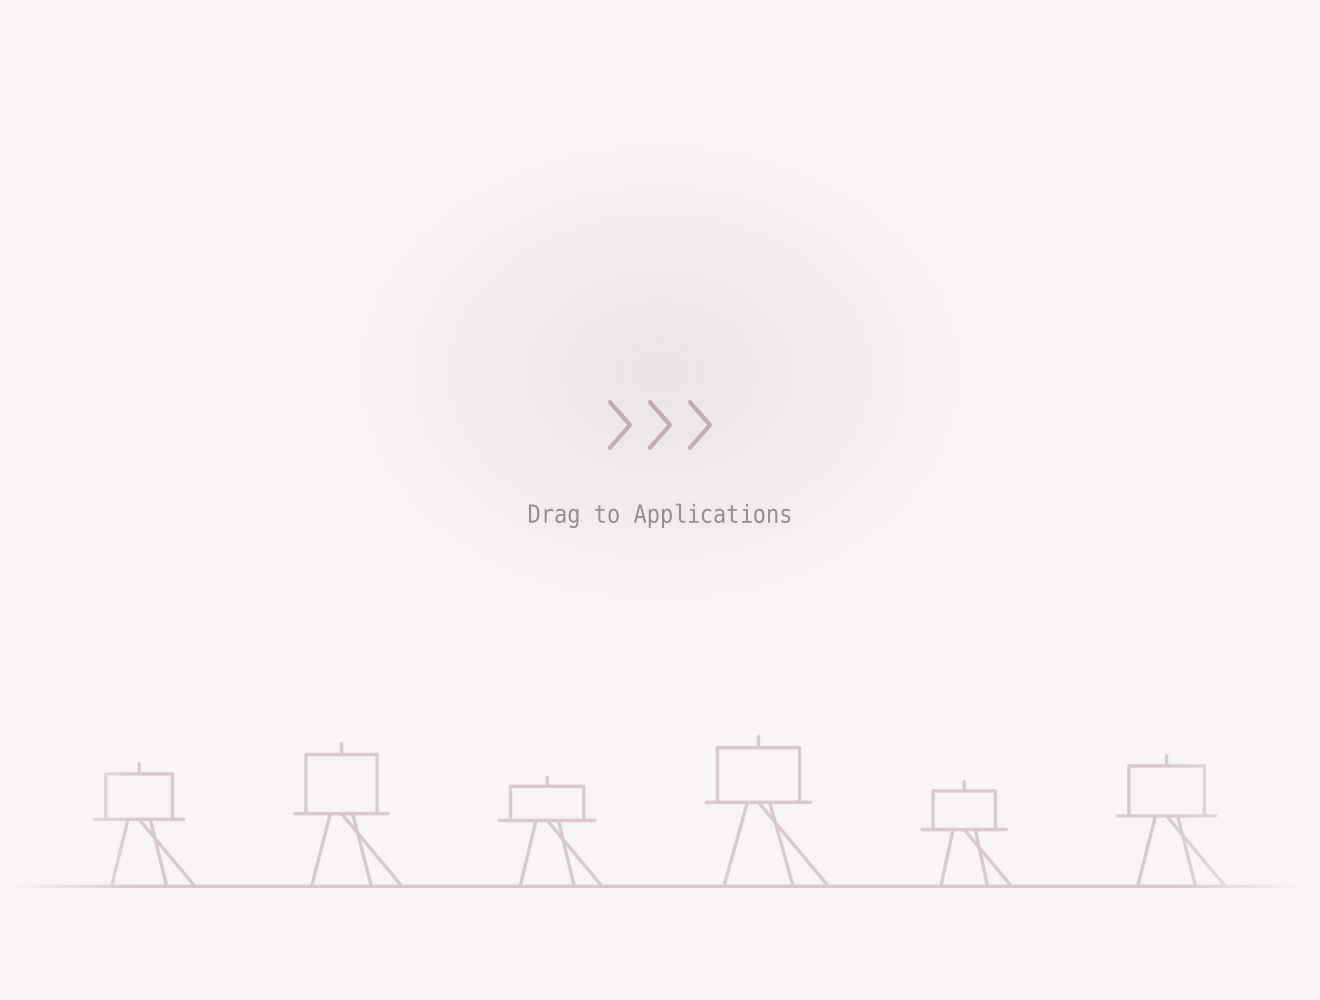
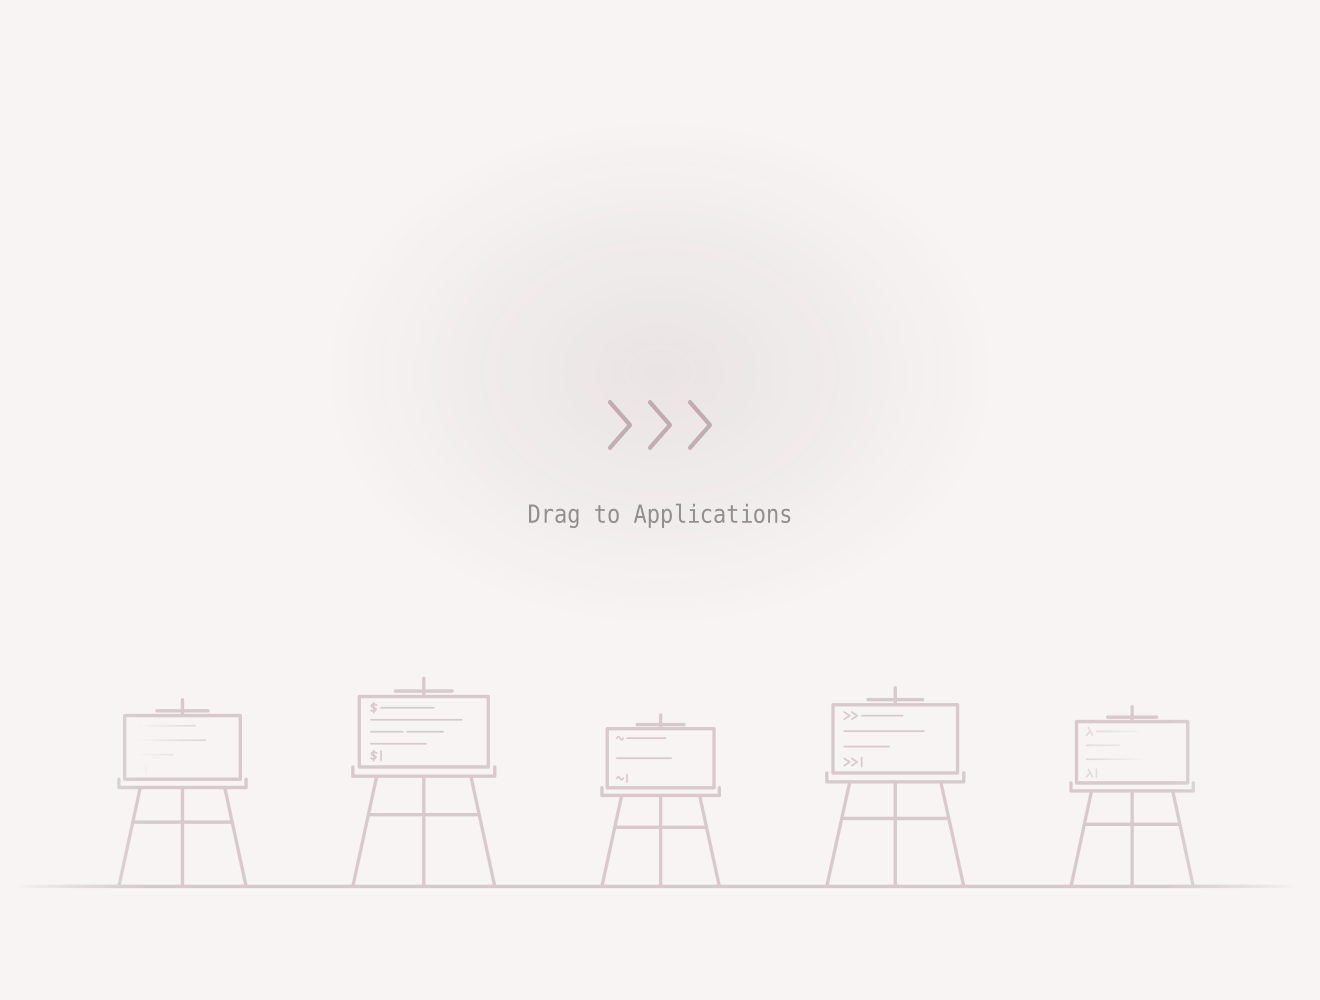
feat: put a different shell prompt on each easel
The terminals on the canvases had a title bar with three window dots and
the same two lines of output underneath. Drop the chrome and give each
easel its own prompt — `>`, `$`, `~`, `>>`, `λ` — over a screen of output
that differs in line count and length.

Split the drawing in two. `EaselGeometry` holds the measurements, and
`EaselRow` and `EaselScreens` each stroke from it, because a `Shape`
carries one `StrokeStyle` and the screens need a finer line than the
frames to stay legible at the sizes this ships at. The SVG comment has
described that arrangement since the last commit; it is now true.

Every glyph carries its own advance width and cap height. A shared box
made `$` squat and `>>` cramped, and `$`, `~` and `λ` are drawn as
curves — the boxy line-art versions blobbed at HelpView width.

Also fixes the second SVG path, which was transcribed against the older
six-easel layout and rendered as prompt text floating beside the easels.

diff --git a/Sources/Views/EaselRow.swift b/Sources/Views/EaselRow.swift
@@ -1,90 +1,336 @@
-// ABOUTME: A row of studio easels as a SwiftUI shape.
+// ABOUTME: A row of studio easels, each holding a terminal, as SwiftUI shapes.
 // ABOUTME: Drawn on a 1200x260 grid with the studio floor at y=220.
 
 import SwiftUI
 
-struct EaselRow: Shape {
-    /// One easel, measured up from the floor: where it stands, how tall its legs
-    /// are, and the canvas resting on its tray.
-    private struct Easel {
+/// The shared measurements behind the easel row. Two shapes draw from it —
+/// `EaselRow` for the furniture and `EaselScreens` for what is on the canvases —
+/// because the screens are stroked finer than the frames and a `Shape` carries
+/// one `StrokeStyle`.
+enum EaselGeometry {
+    /// One easel, measured up from the floor: where it stands, the terminal it
+    /// holds, how long its legs are, and how far the mast shows above the frame.
+    struct Easel {
         let centerX: Double
-        let legHeight: Double
-        let canvasHeight: Double
         let canvasHalfWidth: Double
-        /// How far the mast shows above the canvas.
+        let canvasHeight: Double
+        let legHeight: Double
         let mastStub: Double
     }
 
-    private static let floorY: Double = 220
-    private static let floorStart: Double = 20
-    private static let floorEnd: Double = 1180
-    /// How far the tray sticks out past the canvas, each side.
-    private static let trayOverhang: Double = 10
-    /// Half-span where the front legs meet the tray.
-    private static let legTopSpread: Double = 10
-    /// Front feet, as a fraction of leg height. The rear leg splays further, so
-    /// the tripod reads as three legs rather than a doubled line.
-    private static let legSplay: Double = 0.42
-    private static let rearLegSplay: Double = 0.85
+    /// One easel's derived edges, so both shapes agree on where the canvas is.
+    struct Metrics {
+        let left: Double
+        let top: Double
+        let width: Double
+        let height: Double
+        let trayTopY: Double
+        let trayBottomY: Double
+        let trayHalf: Double
+    }
 
-    private static let easels: [Easel] = [
-        Easel(centerX: 135, legHeight: 59, canvasHeight: 40, canvasHalfWidth: 30, mastStub: 9),
-        Easel(centerX: 317, legHeight: 64, canvasHeight: 52, canvasHalfWidth: 32, mastStub: 10),
-        Easel(centerX: 502, legHeight: 58, canvasHeight: 30, canvasHalfWidth: 33, mastStub: 8),
-        Easel(centerX: 692, legHeight: 74, canvasHeight: 48, canvasHalfWidth: 37, mastStub: 10),
-        Easel(centerX: 877, legHeight: 50, canvasHeight: 34, canvasHalfWidth: 28, mastStub: 8),
-        Easel(centerX: 1059, legHeight: 62, canvasHeight: 44, canvasHalfWidth: 34, mastStub: 9),
+    static let gridWidth: Double = 1200
+    static let gridHeight: Double = 260
+
+    static let floorY: Double = 220
+    static let floorStart: Double = 20
+    static let floorEnd: Double = 1180
+    /// Tray half-span, as a multiple of the canvas half-width. The front feet
+    /// land under the tray's edges, so this also sets how wide the base stands.
+    static let trayRatio: Double = 1.10
+    /// Tray depth, as a fraction of canvas height.
+    static let trayThickness: Double = 0.13
+    /// Where the front legs meet the tray, as a fraction of the canvas half-width.
+    static let legTopSpread: Double = 0.73
+    /// Crossbar height, as a fraction of the way down the legs.
+    static let crossbarHeight: Double = 0.35
+    /// The clamp under the mast: half-width as a fraction of canvas width, and
+    /// height as a fraction of the mast stub.
+    static let clampSpan: Double = 0.22
+    static let clampHeight: Double = 0.30
+
+    static let easels: [Easel] = [
+        Easel(centerX: 174, canvasHalfWidth: 52, canvasHeight: 56, legHeight: 87, mastStub: 14),
+        Easel(centerX: 391, canvasHalfWidth: 58, canvasHeight: 62, legHeight: 97, mastStub: 16),
+        Easel(centerX: 604, canvasHalfWidth: 48, canvasHeight: 52, legHeight: 80, mastStub: 12),
+        Easel(centerX: 815, canvasHalfWidth: 56, canvasHeight: 60, legHeight: 92, mastStub: 15),
+        Easel(centerX: 1028, canvasHalfWidth: 50, canvasHeight: 54, legHeight: 84, mastStub: 13),
     ]
 
+    static func metrics(for easel: Easel) -> Metrics {
+        let trayBottomY = floorY - easel.legHeight
+        let trayTopY = trayBottomY - easel.canvasHeight * trayThickness
+        return Metrics(
+            left: easel.centerX - easel.canvasHalfWidth,
+            top: trayTopY - easel.canvasHeight,
+            width: easel.canvasHalfWidth * 2,
+            height: easel.canvasHeight,
+            trayTopY: trayTopY,
+            trayBottomY: trayBottomY,
+            trayHalf: easel.canvasHalfWidth * trayRatio
+        )
+    }
+}
+
+/// A drawing surface that maps the 1200x260 design grid onto a rect.
+private struct Grid {
+    let sx: Double
+    let sy: Double
+    var path = Path()
+
+    init(_ rect: CGRect) {
+        sx = rect.width / EaselGeometry.gridWidth
+        sy = rect.height / EaselGeometry.gridHeight
+    }
+
+    func point(_ x: Double, _ y: Double) -> CGPoint {
+        CGPoint(x: x * sx, y: y * sy)
+    }
+
+    mutating func move(_ x: Double, _ y: Double) {
+        path.move(to: point(x, y))
+    }
+
+    mutating func line(_ x: Double, _ y: Double) {
+        path.addLine(to: point(x, y))
+    }
+
+    mutating func quadCurve(control cx: Double, _ cy: Double, to x: Double, _ y: Double) {
+        path.addQuadCurve(to: point(x, y), control: point(cx, cy))
+    }
+
+    mutating func segment(_ x1: Double, _ y1: Double, _ x2: Double, _ y2: Double) {
+        move(x1, y1)
+        line(x2, y2)
+    }
+}
+
+/// The easels themselves: floor, canvas frames, masts, trays, and legs.
+struct EaselRow: Shape {
     func path(in rect: CGRect) -> Path {
-        let sx = rect.width / 1200
-        let sy = rect.height / 260
-        var p = Path()
+        var g = Grid(rect)
 
-        func pt(_ x: Double, _ y: Double) -> CGPoint {
-            CGPoint(x: x * sx, y: y * sy)
-        }
+        g.segment(EaselGeometry.floorStart, EaselGeometry.floorY,
+                  EaselGeometry.floorEnd, EaselGeometry.floorY)
 
-        p.move(to: pt(Self.floorStart, Self.floorY))
-        p.addLine(to: pt(Self.floorEnd, Self.floorY))
+        for easel in EaselGeometry.easels {
+            let m = EaselGeometry.metrics(for: easel)
+            let cx = easel.centerX
+            let cw = easel.canvasHalfWidth
 
-        for easel in Self.easels {
-            let trayY = Self.floorY - easel.legHeight
-            let canvasTopY = trayY - easel.canvasHeight
+            // Canvas, its bottom edge shared with the top of the tray.
+            g.move(m.left, m.trayTopY)
+            g.line(m.left, m.top)
+            g.line(m.left + m.width, m.top)
+            g.line(m.left + m.width, m.trayTopY)
+            g.path.closeSubpath()
 
-            // Canvas — three sides, because its bottom edge is the tray.
-            p.move(to: pt(easel.centerX - easel.canvasHalfWidth, trayY))
-            p.addLine(to: pt(easel.centerX - easel.canvasHalfWidth, canvasTopY))
-            p.addLine(to: pt(easel.centerX + easel.canvasHalfWidth, canvasTopY))
-            p.addLine(to: pt(easel.centerX + easel.canvasHalfWidth, trayY))
-
-            // Mast, showing above the canvas.
-            p.move(to: pt(easel.centerX, canvasTopY))
-            p.addLine(to: pt(easel.centerX, canvasTopY - easel.mastStub))
+            // Mast, and the clamp it rises from.
+            g.segment(cx, m.top, cx, m.top - easel.mastStub)
+            let clampY = m.top - easel.mastStub * EaselGeometry.clampHeight
+            g.segment(cx - m.width * EaselGeometry.clampSpan, clampY,
+                      cx + m.width * EaselGeometry.clampSpan, clampY)
 
             // Tray.
-            p.move(to: pt(easel.centerX - easel.canvasHalfWidth - Self.trayOverhang, trayY))
-            p.addLine(to: pt(easel.centerX + easel.canvasHalfWidth + Self.trayOverhang, trayY))
+            g.move(cx - m.trayHalf, m.trayTopY)
+            g.line(cx - m.trayHalf, m.trayBottomY)
+            g.line(cx + m.trayHalf, m.trayBottomY)
+            g.line(cx + m.trayHalf, m.trayTopY)
 
-            // Front legs.
-            p.move(to: pt(easel.centerX - Self.legTopSpread, trayY))
-            p.addLine(to: pt(easel.centerX - easel.legHeight * Self.legSplay, Self.floorY))
-            p.move(to: pt(easel.centerX + Self.legTopSpread, trayY))
-            p.addLine(to: pt(easel.centerX + easel.legHeight * Self.legSplay, Self.floorY))
+            // Front legs, splaying out to land under the tray's edges.
+            for side in [-1.0, 1.0] {
+                g.segment(cx + side * cw * EaselGeometry.legTopSpread, m.trayBottomY,
+                          cx + side * m.trayHalf, EaselGeometry.floorY)
+            }
 
-            // Rear leg.
-            p.move(to: pt(easel.centerX, trayY))
-            p.addLine(to: pt(easel.centerX + easel.legHeight * Self.rearLegSplay, Self.floorY))
+            // Crossbar between them.
+            let barY = m.trayBottomY
+                + (EaselGeometry.floorY - m.trayBottomY) * EaselGeometry.crossbarHeight
+            let legTopX = cw * EaselGeometry.legTopSpread
+            let barX = legTopX + (m.trayHalf - legTopX) * EaselGeometry.crossbarHeight
+            g.segment(cx - barX, barY, cx + barX, barY)
+
+            // Rear leg, vertical in this view.
+            g.segment(cx, m.trayBottomY, cx, EaselGeometry.floorY)
         }
 
-        return p
+        return g.path
+    }
+}
+
+/// What is on the canvases: five terminals, each at a different shell prompt.
+struct EaselScreens: Shape {
+    /// A piece of one line. Runs are widths as a fraction of the line's text
+    /// width; the rest is the prompt and the cursor sitting after it.
+    enum Token {
+        case chevron
+        case doubleChevron
+        case dollar
+        case tilde
+        case lambda
+        /// A run of "text" that wide.
+        case run(Double)
+        /// The block cursor, waiting at the end of an unfinished line.
+        case cursor
+
+        /// Advance width and cap height, as multiples of the base glyph box.
+        /// The glyphs are not one size: `$` is narrow and tall, `>>` is two
+        /// chevrons wide, `~` sits low.
+        var scale: (width: Double, height: Double) {
+            switch self {
+            case .chevron: (0.95, 1.0)
+            case .doubleChevron: (1.75, 1.0)
+            case .dollar: (0.72, 1.35)
+            case .tilde: (1.0, 0.85)
+            case .lambda: (0.9, 1.2)
+            case .run, .cursor: (1, 1)
+            }
+        }
+    }
+
+    /// One screen per easel, top line first. Each easel is at a different
+    /// prompt: `>`, `$`, `~`, `>>`, `λ`.
+    private static let screens: [[[Token]]] = [
+        [
+            [.chevron, .run(0.52)],
+            [.run(0.74)],
+            [.run(0.40)],
+            [.chevron, .cursor],
+        ],
+        [
+            [.dollar, .run(0.50)],
+            [.run(0.86)],
+            [.run(0.30), .run(0.34)],
+            [.run(0.52)],
+            [.dollar, .cursor],
+        ],
+        [
+            [.tilde, .run(0.44)],
+            [.run(0.62)],
+            [.tilde, .cursor],
+        ],
+        [
+            [.doubleChevron, .run(0.40)],
+            [.run(0.78)],
+            [.run(0.44)],
+            [.doubleChevron, .cursor],
+        ],
+        [
+            [.lambda, .run(0.46)],
+            [.run(0.36)],
+            [.run(0.66)],
+            [.lambda, .cursor],
+        ],
+    ]
+
+    /// Screen margins and type size, as fractions of the canvas.
+    private static let padX: Double = 0.09
+    private static let padY: Double = 0.16
+    private static let glyphWidth: Double = 0.06
+    private static let wordGap: Double = 0.035
+    /// Cap height, bounded so the shortest canvas does not get fat glyphs.
+    private static let lineHeightRatio: Double = 0.62
+    private static let maxGlyphHeight: Double = 0.105
+
+    func path(in rect: CGRect) -> Path {
+        var g = Grid(rect)
+
+        for (easel, screen) in zip(EaselGeometry.easels, Self.screens) {
+            let m = EaselGeometry.metrics(for: easel)
+            let baseWidth = m.width * Self.glyphWidth
+            let gap = m.width * Self.wordGap
+            let textLeft = m.left + m.width * Self.padX
+            let textWidth = m.width * (1 - 2 * Self.padX)
+
+            let firstY = m.top + m.height * Self.padY
+            let lastY = m.top + m.height * (1 - Self.padY)
+            let pitch = screen.count > 1 ? (lastY - firstY) / Double(screen.count - 1) : 0
+            let baseHeight = min(pitch * Self.lineHeightRatio, m.height * Self.maxGlyphHeight)
+
+            for (index, tokens) in screen.enumerated() {
+                let y = firstY + pitch * Double(index)
+                var x = textLeft
+
+                for token in tokens {
+                    switch token {
+                    case let .run(width):
+                        g.segment(x, y, x + textWidth * width, y)
+                        x += textWidth * width
+                    case .cursor:
+                        g.segment(x, y - baseHeight * 0.62, x, y + baseHeight * 0.62)
+                        x += baseWidth * 0.35
+                    default:
+                        let scale = token.scale
+                        Self.draw(token, in: &g, at: x, y,
+                                  width: baseWidth * scale.width,
+                                  height: baseHeight * scale.height)
+                        x += baseWidth * scale.width
+                    }
+                    x += gap
+                }
+            }
+        }
+
+        return g.path
+    }
+
+    /// Draws one prompt glyph in the box (x, y - height/2) ... (x + width, y + height/2).
+    private static func draw(_ token: Token, in g: inout Grid,
+                             at x: Double, _ y: Double,
+                             width w: Double, height h: Double)
+    {
+        let half = h / 2
+
+        switch token {
+        case .chevron:
+            g.move(x, y - half)
+            g.line(x + w, y)
+            g.line(x, y + half)
+
+        case .doubleChevron:
+            for offset in [0.0, 0.58] {
+                g.move(x + w * offset, y - half)
+                g.line(x + w * (offset + 0.42), y)
+                g.line(x + w * offset, y + half)
+            }
+
+        case .dollar:
+            g.segment(x + w * 0.5, y - half, x + w * 0.5, y + half)
+            g.move(x + w, y - half * 0.52)
+            g.quadCurve(control: x + w * 0.62, y - half * 0.9, to: x + w * 0.18, y - half * 0.62)
+            g.quadCurve(control: x - w * 0.12, y - half * 0.2, to: x + w * 0.5, y - half * 0.04)
+            g.quadCurve(control: x + w * 1.12, y + half * 0.14, to: x + w * 0.82, y + half * 0.5)
+            g.quadCurve(control: x + w * 0.44, y + half * 0.86, to: x, y + half * 0.52)
+
+        case .tilde:
+            g.move(x, y)
+            g.quadCurve(control: x + w * 0.25, y - half * 1.05, to: x + w * 0.5, y)
+            g.quadCurve(control: x + w * 0.75, y + half * 1.05, to: x + w, y)
+
+        case .lambda:
+            let apexX = x + w * 0.30
+            g.move(apexX, y - half)
+            g.line(x + w, y + half)
+            // The short leg branches off the main stroke, 45% of the way down.
+            g.move(apexX + (x + w - apexX) * 0.45, y - half + h * 0.45)
+            g.line(x, y + half)
+
+        case .run, .cursor:
+            break
+        }
     }
 }
 
 struct EaselRowView: View {
+    private static let ink = Color.primary.opacity(0.1)
+
     var body: some View {
-        EaselRow()
-            .stroke(Color.primary.opacity(0.1), style: StrokeStyle(lineWidth: 3, lineCap: .round, lineJoin: .round))
-            .aspectRatio(1200 / 260, contentMode: .fit)
+        ZStack {
+            EaselRow()
+                .stroke(Self.ink, style: StrokeStyle(lineWidth: 3, lineCap: .round, lineJoin: .round))
+            EaselScreens()
+                .stroke(Self.ink, style: StrokeStyle(lineWidth: 1.5, lineCap: .round, lineJoin: .round))
+        }
+        .aspectRatio(EaselGeometry.gridWidth / EaselGeometry.gridHeight, contentMode: .fit)
     }
 }
